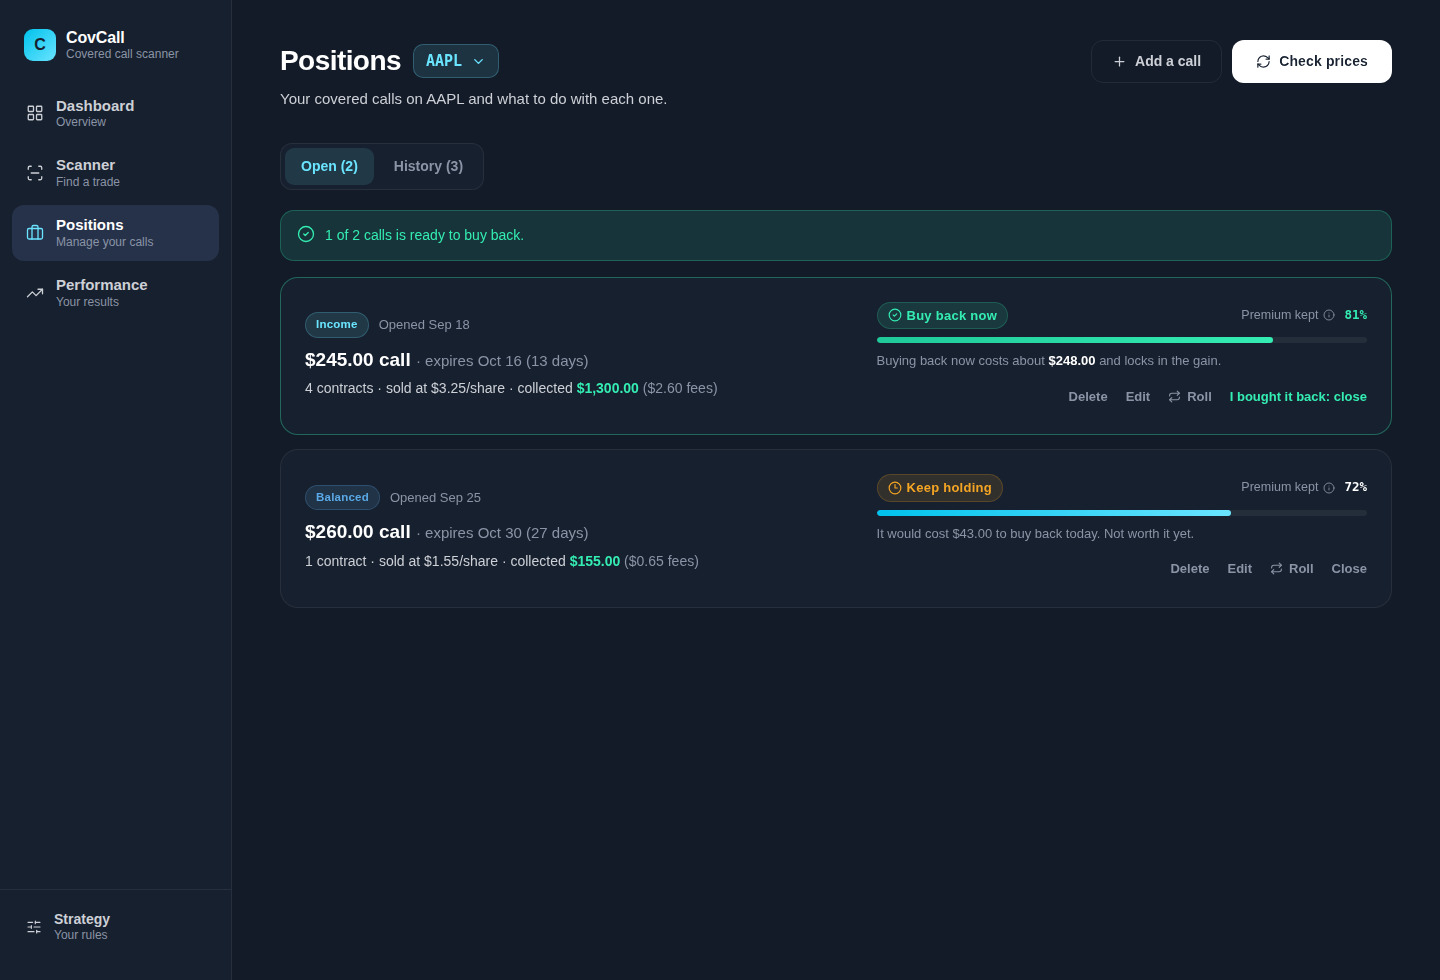
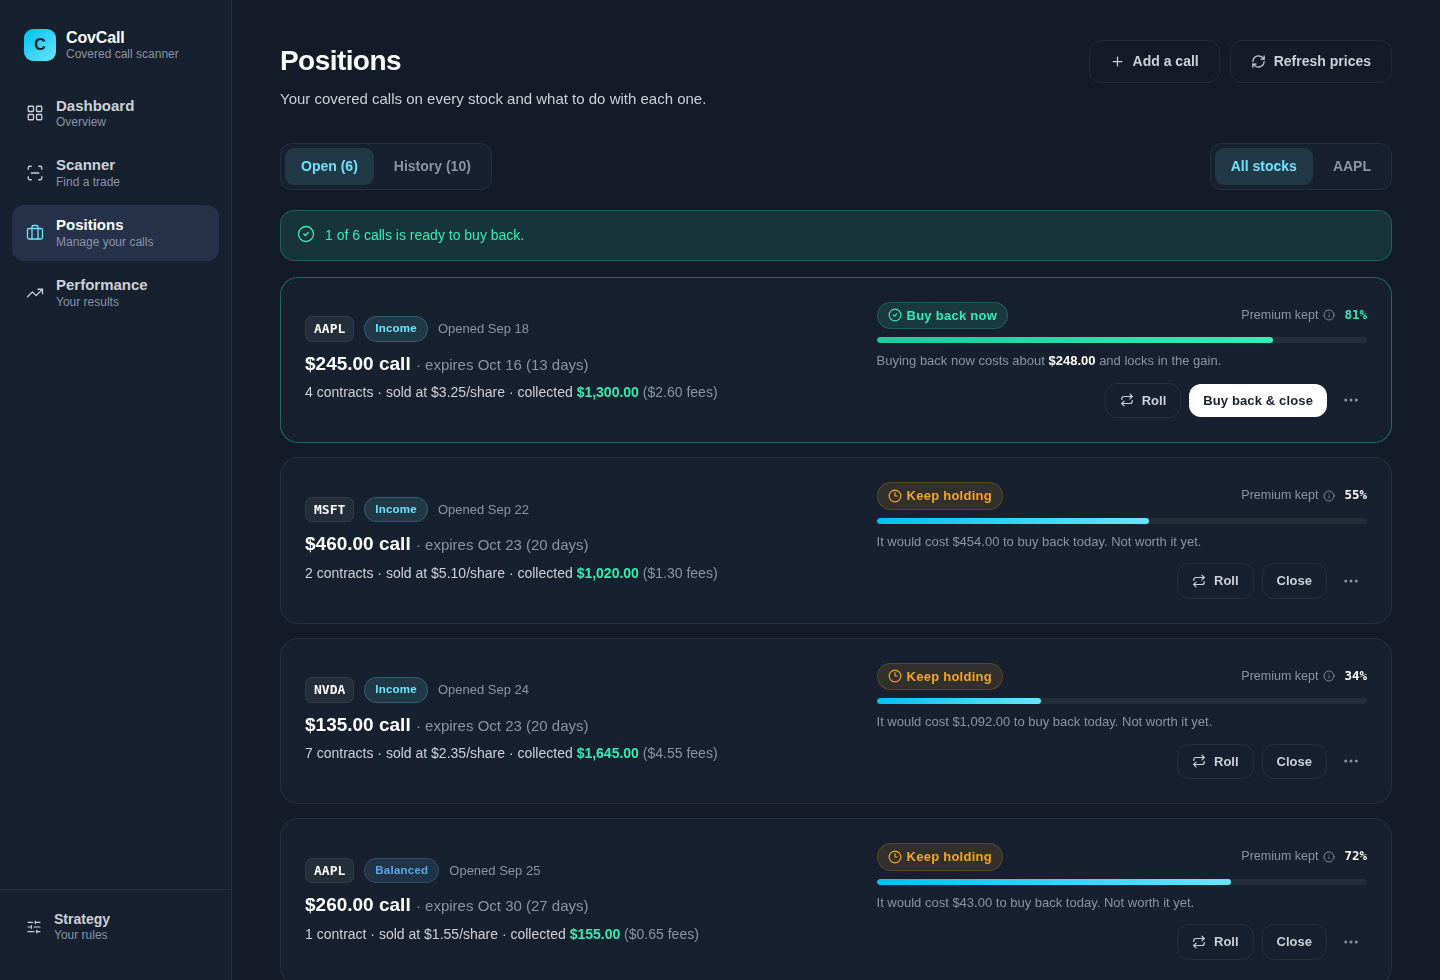
Retake screenshots for the updated UI
Dashboard (Needs attention + stock rows), Scanner at the 15% default,
Positions across all stocks with automatic price check, the roll
dialog, Performance with the monthly chart, and Positions on a phone.
README captions updated to match.

Claude-Session: https://claude.ai/code/session_01BL7NnaB4jY3csjvbLdMFq2

diff --git a/README.md b/README.md
@@ -40,7 +40,7 @@ Covered Call Scanner automates the process of finding, evaluating, and tracking 
 
 *Demo portfolio with simulated market data.*
 
-**Dashboard** — premium from open calls, contracts working, and what's ready to sell for each stock.
+**Dashboard** — a "Needs attention" list (calls to buy back, contracts to sell, calls expiring soon, your monthly goal), then one row per stock.
 
 ![Dashboard](docs/screenshots/dashboard.png)
 
@@ -48,7 +48,7 @@ Covered Call Scanner automates the process of finding, evaluating, and tracking 
 
 ![Scanner](docs/screenshots/scanner.png)
 
-**Positions** — "Check prices" shows which calls are ready to buy back; each call can be closed, rolled, edited or deleted.
+**Positions** — every open call across your stocks, with live prices checked automatically to show which are ready to buy back. Roll and Close sit on each card; Edit and Delete are in the ⋯ menu, and changes can be undone.
 
 ![Positions](docs/screenshots/positions.png)
 
@@ -56,7 +56,7 @@ Covered Call Scanner automates the process of finding, evaluating, and tracking 
 
 ![Roll a call](docs/screenshots/roll.png)
 
-**Performance** — what you kept after buybacks and fees, yearly return on capital, gains on shares called away, month by month.
+**Performance** — what you kept after buybacks and fees, yearly return on capital, gains on shares called away, and a month-by-month chart against your goal.
 
 ![Performance](docs/screenshots/performance.png)
 
